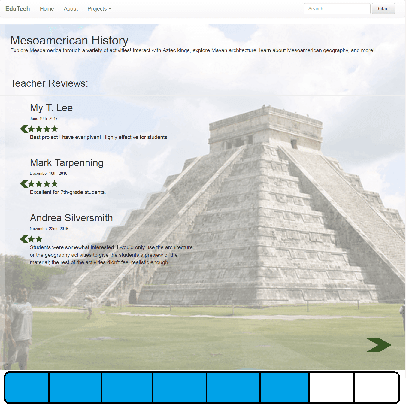
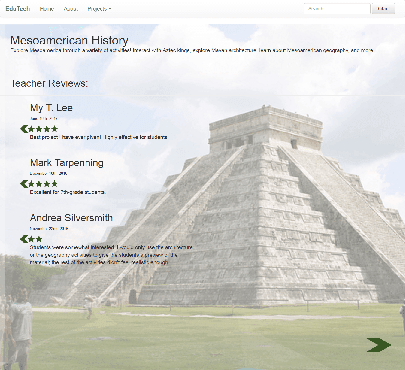
Transparent projects

diff --git a/css/styles.css b/css/styles.css
@@ -193,6 +193,11 @@ li a:hover:not(.active) {
     z-index: 5;
 }
 
+.projects h3 a {
+    color: white;
+    text-decoration: underline;
+}
+
 .centerProject {
     position: relative;
     left: 10%;
@@ -203,6 +208,11 @@ li a:hover:not(.active) {
     max-width: 50%;
     max-height: 50%;
     object-fit: cover;
+    opacity: 0.2;
+}
+
+.projects img:hover {
+    opacity: 0.8;
 }
 
 /* ------------------------------------------------------------------ *\
